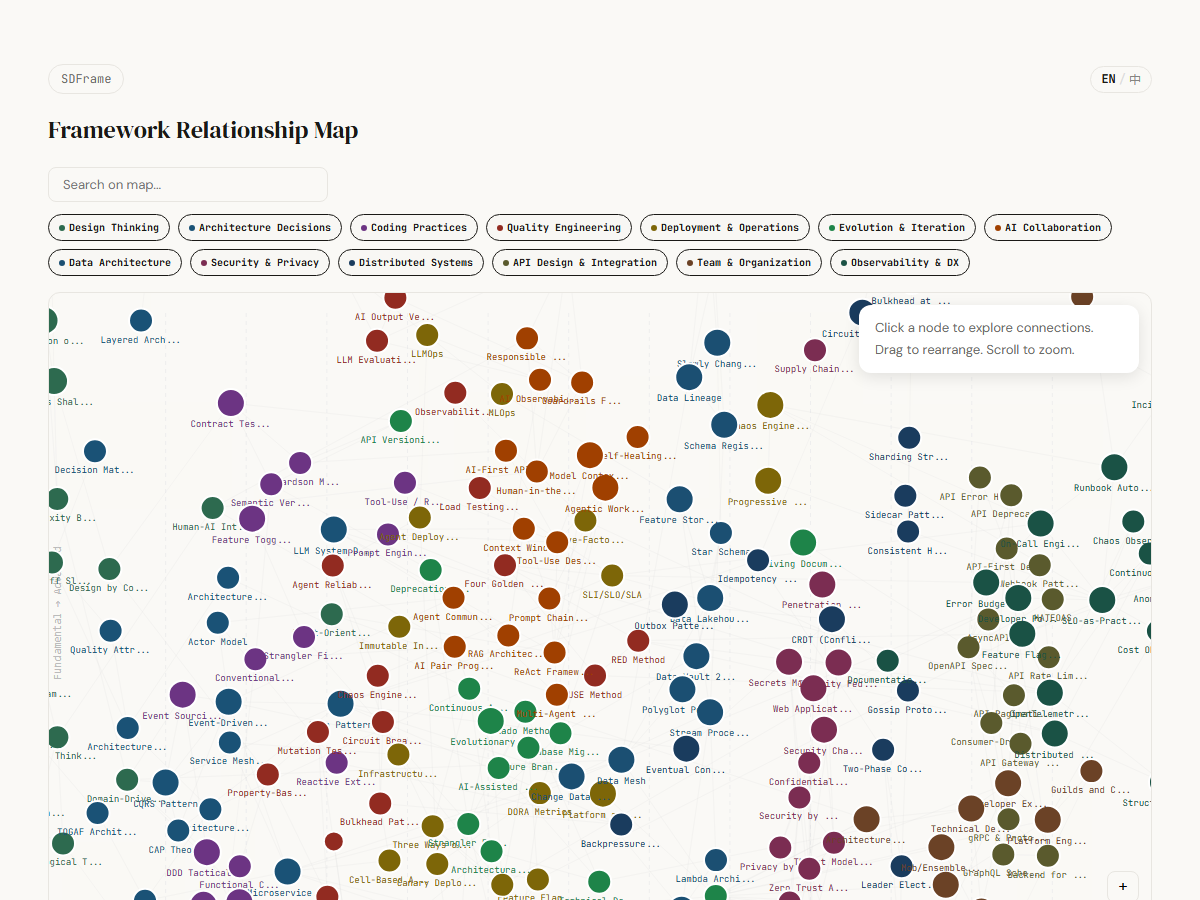
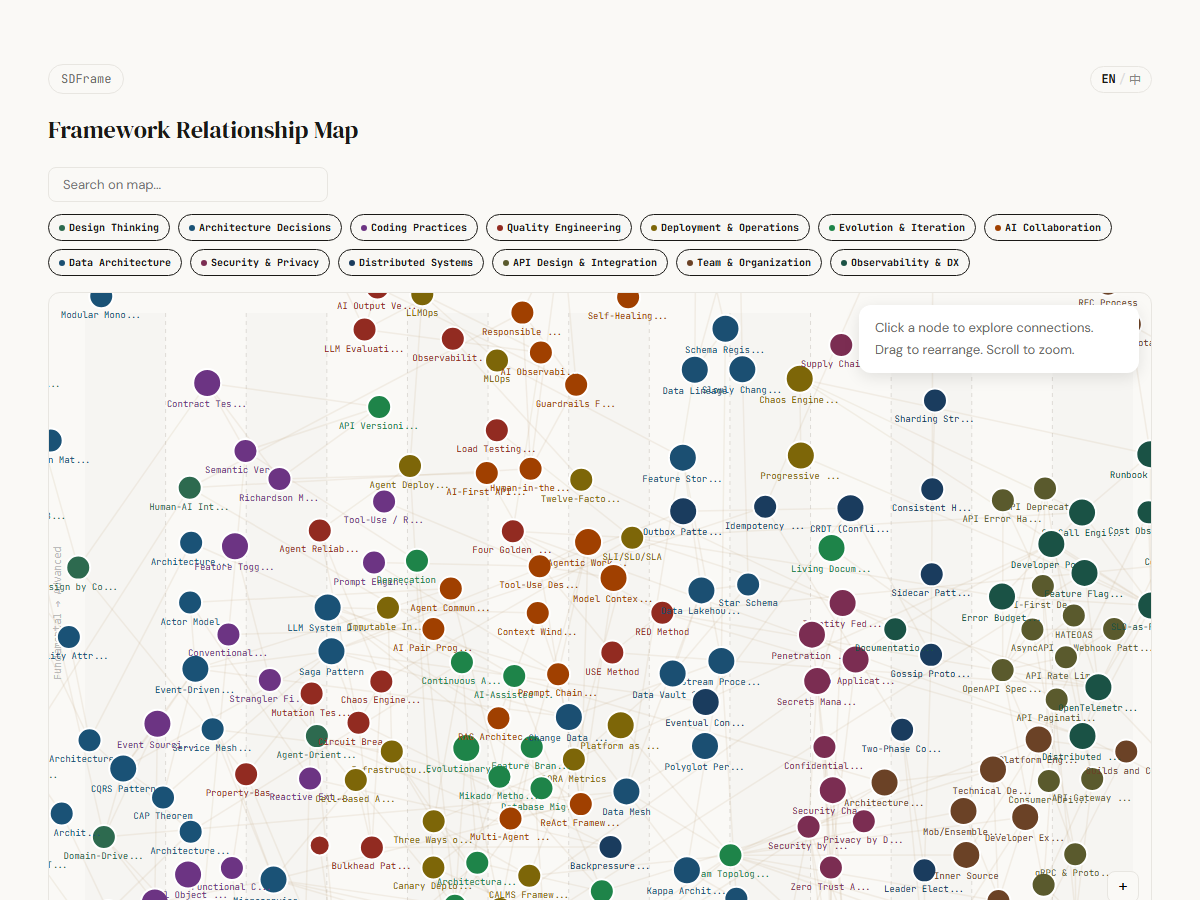
feat: category accessibility + footer nav + KP-Map R2 (Sprint S17)
Main Track:
- CategorySection headers now link to /category/{slug}
- "View all" links to category page (was inline expand)
- Footer nav: Map, Compare, Selector, Paths links
- Route audit: all pages reachable from multiple paths

KP-Map R2:
- Edge visibility: #ddd → #c4a882 warm accent, 1.5px, opacity 0.15
- Node spacing: charge -120 → -180, collision 18 → 22, Y-force 0.15 → 0.2
- Category columns: alternating subtle background tint + darker dividers

48/48 E2E tests passing.

diff --git a/src/components/Layout.tsx b/src/components/Layout.tsx
@@ -16,42 +16,50 @@ export default function Layout() {
         <Outlet />
       </main>
       <footer className={styles.footer}>
-        <div className={styles.footerLeft}>
-          <span className={styles.footerBrand}>{t.footerTitle}</span>
-          <a
-            href="https://pmframe.works/"
-            className={styles.footerInspired}
-            target="_blank"
-            rel="noopener noreferrer"
-          >
-            {t.inspiredBy}
-          </a>
-        </div>
-        <div className={styles.footerRight}>
-          <a
-            href="https://github.com/Caldis"
-            className={styles.footerLink}
-            target="_blank"
-            rel="noopener noreferrer"
-          >
-            {t.builtBy}
-          </a>
-          <span className={styles.separator}>·</span>
-          <a
-            href="https://github.com/Caldis/frameworks"
-            className={styles.footerLink}
-            target="_blank"
-            rel="noopener noreferrer"
-          >
-            <svg
-              className={styles.githubIcon}
-              viewBox="0 0 16 16"
-              aria-hidden="true"
+        <nav className={styles.footerNav}>
+          <Link to="/map" className={styles.footerNavLink}>{t.map}</Link>
+          <Link to="/compare" className={styles.footerNavLink}>{t.compare}</Link>
+          <Link to="/selector" className={styles.footerNavLink}>{t.selector}</Link>
+          <Link to="/paths" className={styles.footerNavLink}>{t.learningPaths}</Link>
+        </nav>
+        <div className={styles.footerMeta}>
+          <div className={styles.footerLeft}>
+            <span className={styles.footerBrand}>{t.footerTitle}</span>
+            <a
+              href="https://pmframe.works/"
+              className={styles.footerInspired}
+              target="_blank"
+              rel="noopener noreferrer"
             >
-              <path d="M8 0C3.58 0 0 3.58 0 8c0 3.54 2.29 6.53 5.47 7.59.4.07.55-.17.55-.38 0-.19-.01-.82-.01-1.49-2.01.37-2.53-.49-2.69-.94-.09-.23-.48-.94-.82-1.13-.28-.15-.68-.52-.01-.53.63-.01 1.08.58 1.23.82.72 1.21 1.87.87 2.33.66.07-.52.28-.87.51-1.07-1.78-.2-3.64-.89-3.64-3.95 0-.87.31-1.59.82-2.15-.08-.2-.36-1.02.08-2.12 0 0 .67-.21 2.2.82.64-.18 1.32-.27 2-.27.68 0 1.36.09 2 .27 1.53-1.04 2.2-.82 2.2-.82.44 1.1.16 1.92.08 2.12.51.56.82 1.27.82 2.15 0 3.07-1.87 3.75-3.65 3.95.29.25.54.73.54 1.48 0 1.07-.01 1.93-.01 2.2 0 .21.15.46.55.38A8.013 8.013 0 0016 8c0-4.42-3.58-8-8-8z" />
-            </svg>
-            {t.source}
-          </a>
+              {t.inspiredBy}
+            </a>
+          </div>
+          <div className={styles.footerRight}>
+            <a
+              href="https://github.com/Caldis"
+              className={styles.footerLink}
+              target="_blank"
+              rel="noopener noreferrer"
+            >
+              {t.builtBy}
+            </a>
+            <span className={styles.separator}>·</span>
+            <a
+              href="https://github.com/Caldis/frameworks"
+              className={styles.footerLink}
+              target="_blank"
+              rel="noopener noreferrer"
+            >
+              <svg
+                className={styles.githubIcon}
+                viewBox="0 0 16 16"
+                aria-hidden="true"
+              >
+                <path d="M8 0C3.58 0 0 3.58 0 8c0 3.54 2.29 6.53 5.47 7.59.4.07.55-.17.55-.38 0-.19-.01-.82-.01-1.49-2.01.37-2.53-.49-2.69-.94-.09-.23-.48-.94-.82-1.13-.28-.15-.68-.52-.01-.53.63-.01 1.08.58 1.23.82.72 1.21 1.87.87 2.33.66.07-.52.28-.87.51-1.07-1.78-.2-3.64-.89-3.64-3.95 0-.87.31-1.59.82-2.15-.08-.2-.36-1.02.08-2.12 0 0 .67-.21 2.2.82.64-.18 1.32-.27 2-.27.68 0 1.36.09 2 .27 1.53-1.04 2.2-.82 2.2-.82.44 1.1.16 1.92.08 2.12.51.56.82 1.27.82 2.15 0 3.07-1.87 3.75-3.65 3.95.29.25.54.73.54 1.48 0 1.07-.01 1.93-.01 2.2 0 .21.15.46.55.38A8.013 8.013 0 0016 8c0-4.42-3.58-8-8-8z" />
+              </svg>
+              {t.source}
+            </a>
+          </div>
         </div>
       </footer>
     </div>

diff --git a/src/pages/MapPage.tsx b/src/pages/MapPage.tsx
@@ -102,7 +102,7 @@ export default function MapPage() {
       .attr('opacity', d => {
         const s = d.source as SimNode
         const t = d.target as SimNode
-        return activeCategories.has(s.category) && activeCategories.has(t.category) ? 0.2 : 0.05
+        return activeCategories.has(s.category) && activeCategories.has(t.category) ? 0.15 : 0.05
       })
   }, [activeCategories])
 
@@ -216,10 +216,22 @@ export default function MapPage() {
         .attr('y1', margin.top)
         .attr('x2', x)
         .attr('y2', margin.top + innerHeight)
-        .attr('stroke', '#eee')
+        .attr('stroke', '#e0ddd8')
         .attr('stroke-width', 1)
         .attr('stroke-dasharray', '4,4')
     }
+
+    // Alternating column background tint
+    categoryOrder.forEach((_catKey, i) => {
+      if (i % 2 === 0) {
+        bgLayer.append('rect')
+          .attr('x', margin.left + i * colWidth)
+          .attr('y', margin.top)
+          .attr('width', colWidth)
+          .attr('height', innerHeight)
+          .attr('fill', 'rgba(0,0,0,0.015)')
+      }
+    })
 
     // Draw X-axis labels (category names at bottom)
     categoryOrder.forEach((catKey, i) => {
@@ -274,10 +286,10 @@ export default function MapPage() {
     // Simulation with category-based X and complexity-based Y
     const simulation = d3.forceSimulation<SimNode>(nodes)
       .force('link', d3.forceLink<SimNode, SimLink>(links).id(d => d.slug).distance(80))
-      .force('charge', d3.forceManyBody().strength(-120))
+      .force('charge', d3.forceManyBody().strength(-180))
       .force('x', d3.forceX<SimNode>(d => catTargetX(d.category)).strength(0.4))
-      .force('y', d3.forceY<SimNode>(d => complexityTargetY(d)).strength(0.15))
-      .force('collision', d3.forceCollide().radius(18))
+      .force('y', d3.forceY<SimNode>(d => complexityTargetY(d)).strength(0.2))
+      .force('collision', d3.forceCollide().radius(22))
 
     // Links
     const link = g.append('g')
@@ -285,9 +297,9 @@ export default function MapPage() {
       .data(links)
       .join('line')
       .attr('class', 'link-line')
-      .attr('stroke', '#ddd')
-      .attr('stroke-width', 1)
-      .attr('opacity', 0.2)
+      .attr('stroke', '#c4a882')
+      .attr('stroke-width', 1.5)
+      .attr('opacity', 0.15)
 
     // Node groups
     const node = g.append('g')
@@ -370,17 +382,17 @@ export default function MapPage() {
           .attr('stroke', l => {
             const s = (l.source as SimNode).slug
             const tgt = (l.target as SimNode).slug
-            return (s === d.slug || tgt === d.slug) ? sourceColor : '#ddd'
+            return (s === d.slug || tgt === d.slug) ? sourceColor : '#c4a882'
           })
           .attr('stroke-width', l => {
             const s = (l.source as SimNode).slug
             const tgt = (l.target as SimNode).slug
-            return (s === d.slug || tgt === d.slug) ? 3 : 1
+            return (s === d.slug || tgt === d.slug) ? 3 : 1.5
           })
           .attr('opacity', l => {
             const s = (l.source as SimNode).slug
             const tgt = (l.target as SimNode).slug
-            return (s === d.slug || tgt === d.slug) ? 0.9 : 0.08
+            return (s === d.slug || tgt === d.slug) ? 0.8 : 0.05
           })
           .attr('filter', l => {
             const s = (l.source as SimNode).slug
@@ -433,11 +445,11 @@ export default function MapPage() {
         }
       })
       .on('mouseleave', () => {
-        // Reset links
+        // Reset links to default warm styling
         link
-          .attr('stroke', '#ddd')
-          .attr('stroke-width', 1)
-          .attr('opacity', 0.2)
+          .attr('stroke', '#c4a882')
+          .attr('stroke-width', 1.5)
+          .attr('opacity', 0.15)
           .attr('filter', 'none')
 
         // Restore labels: always show for high-connection, zoom-dependent for others
@@ -473,17 +485,17 @@ export default function MapPage() {
           .attr('stroke', l => {
             const s = (l.source as SimNode).slug
             const tgt = (l.target as SimNode).slug
-            return (s === d.slug || tgt === d.slug) ? sourceColor : '#ddd'
+            return (s === d.slug || tgt === d.slug) ? sourceColor : '#c4a882'
           })
           .attr('stroke-width', l => {
             const s = (l.source as SimNode).slug
             const tgt = (l.target as SimNode).slug
-            return (s === d.slug || tgt === d.slug) ? 3 : 1
+            return (s === d.slug || tgt === d.slug) ? 3 : 1.5
           })
           .attr('opacity', l => {
             const s = (l.source as SimNode).slug
             const tgt = (l.target as SimNode).slug
-            return (s === d.slug || tgt === d.slug) ? 0.9 : 0.08
+            return (s === d.slug || tgt === d.slug) ? 0.8 : 0.05
           })
           .attr('filter', l => {
             const s = (l.source as SimNode).slug

diff --git a/src/components/Layout.module.css b/src/components/Layout.module.css
@@ -52,10 +52,34 @@
   padding: 48px;
   width: 100%;
   display: flex;
-  justify-content: space-between;
-  align-items: center;
+  flex-direction: column;
+  gap: 24px;
   border-top: 1px solid var(--border);
   margin-top: 64px;
+}
+
+.footerNav {
+  display: flex;
+  flex-direction: row;
+  gap: 16px;
+}
+
+.footerNavLink {
+  font-family: var(--font-mono);
+  font-size: 12px;
+  color: var(--muted);
+  text-decoration: none;
+  transition: color 0.15s;
+}
+
+.footerNavLink:hover {
+  color: var(--text);
+}
+
+.footerMeta {
+  display: flex;
+  justify-content: space-between;
+  align-items: center;
 }
 
 .footerLeft {

diff --git a/src/components/CategorySection.tsx b/src/components/CategorySection.tsx
@@ -1,4 +1,4 @@
-import { useState } from 'react'
+import { Link } from 'react-router-dom'
 import type { Category, Framework } from '../types'
 import { useI18n } from '../i18n'
 import CardGrid from './CardGrid'
@@ -22,10 +22,9 @@ export default function CategorySection({
   onToggleFavorite,
 }: CategorySectionProps) {
   const { localized } = useI18n()
-  const [expanded, setExpanded] = useState(false)
 
   const hasMore = frameworks.length > PREVIEW_COUNT
-  const visible = expanded || !hasMore ? frameworks : frameworks.slice(0, PREVIEW_COUNT)
+  const visible = hasMore ? frameworks.slice(0, PREVIEW_COUNT) : frameworks
 
   return (
     <section className={styles.categorySection}>
@@ -33,9 +32,9 @@ export default function CategorySection({
         className={styles.sectionHeader}
         style={{ borderLeft: `4px solid ${category.colorText}` }}
       >
-        <span className={styles.sectionName}>
+        <Link to={`/category/${category.slug}`} className={styles.sectionNameLink}>
           {localized(category, 'name')}
-        </span>
+        </Link>
         <span className={styles.sectionNameZh}>
           {category.name_zh}
         </span>
@@ -51,13 +50,13 @@ export default function CategorySection({
         onToggleFavorite={onToggleFavorite}
       />
 
-      {hasMore && !expanded && (
-        <button
+      {hasMore && (
+        <Link
+          to={`/category/${category.slug}`}
           className={styles.showMore}
-          onClick={() => setExpanded(true)}
         >
-          Show all {frameworks.length} &rarr;
-        </button>
+          View all {frameworks.length} in {localized(category, 'name')} &rarr;
+        </Link>
       )}
     </section>
   )

diff --git a/src/components/CategorySection.module.css b/src/components/CategorySection.module.css
@@ -15,6 +15,17 @@
   font-size: 20px;
 }
 
+.sectionNameLink {
+  font-family: var(--font-serif);
+  font-size: 20px;
+  color: inherit;
+  text-decoration: none;
+}
+
+.sectionNameLink:hover {
+  text-decoration: underline;
+}
+
 .sectionNameZh {
   font-size: 14px;
   color: var(--muted);